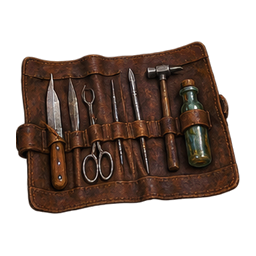
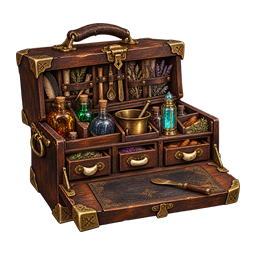
Add costly Upgrade scrollcraft, lasting Keen Study and painted Toolkit

diff --git a/core/src/test/java/com/shatteredpixel/shatteredpixeldungeon/acceptance/ScribingRoomsScenario.java b/core/src/test/java/com/shatteredpixel/shatteredpixeldungeon/acceptance/ScribingRoomsScenario.java
@@ -167,6 +167,7 @@ final class ScribingRoomsScenario {
     }
 
     static void scribing() {
+        BalanceTuning.reset();
         GamesInProgress.selectedClass=HeroClass.ENCHANTER;
         Dungeon.init();Dungeon.switchLevel(Dungeon.newLevel(),-1);SmokeRun.clearArena();
         Hero hero=Dungeon.hero;
@@ -177,10 +178,11 @@ final class ScribingRoomsScenario {
         check(BlankParchment.recipes().isEmpty(),"historical journal knowledge is not a recipe");
         Dungeon.energy=100;int charges=brush.charges();float time=hero.cooldown();
         check(!BlankParchment.scribe(hero,ScrollOfIdentify.class),"unknown recipe rejected");
+        check(!BlankParchment.scribe(hero,ScrollOfUpgrade.class),"unknown Upgrade recipe rejected");
         check(Dungeon.energy==100&&paper.quantity()==10&&brush.charges()==charges&&hero.cooldown()==time,"invalid selection spends nothing");
         new ScrollOfIdentify().identify();new ScrollOfTransmutation().identify();new ScrollOfUpgrade().identify();new ScrollOfEnchantment().identify();
         check(BlankParchment.recipes().contains(ScrollOfIdentify.class)&&BlankParchment.recipes().contains(ScrollOfTransmutation.class)
-                &&!BlankParchment.recipes().contains(ScrollOfUpgrade.class)&&!BlankParchment.recipes().contains(ScrollOfEnchantment.class),"regular pool and forbidden upgrade/exotic recipes");
+                &&BlankParchment.recipes().contains(ScrollOfUpgrade.class)&&!BlankParchment.recipes().contains(ScrollOfEnchantment.class),"regular and Upgrade recipes require knowledge; exotics remain excluded");
         check(BlankParchment.scribe(hero,ScrollOfIdentify.class),"known regular scroll written");
         check(Dungeon.energy==88&&paper.quantity()==9&&brush.charges()==charges-1&&hero.cooldown()==time+3,"one parchment, charge, 12 energy and exactly three turns");
         check(hero.belongings.getItem(ScrollOfIdentify.class).isIdentified(),"written output is known");
@@ -209,6 +211,21 @@ final class ScribingRoomsScenario {
         com.shatteredpixel.shatteredpixeldungeon.items.bags.ScrollHolder holder=new com.shatteredpixel.shatteredpixeldungeon.items.bags.ScrollHolder();
         check(holder.canHold(paper),"parchment fits scroll holder");
         check(((BlankParchment)paper.duplicate()).quantity()==paper.quantity(),"paper stack save/load");
+        check(BlankParchment.cost(ScrollOfUpgrade.class)==120,"default Upgrade energy cost");
+        Dungeon.energy=119;brush.gainCharge(100);charges=brush.charges();time=hero.cooldown();before=paper.quantity();
+        check(!BlankParchment.scribe(hero,ScrollOfUpgrade.class)&&Dungeon.energy==119&&brush.charges()==charges
+                &&paper.quantity()==before&&hero.cooldown()==time,"unaffordable Upgrade spends nothing");
+        Dungeon.energy=120;
+        check(BlankParchment.scribe(hero,ScrollOfUpgrade.class)&&Dungeon.energy==0&&brush.charges()==charges-1
+                &&paper.quantity()==before-1&&hero.cooldown()==time+3,"Upgrade costs exactly 120 energy, one charge, one sheet and three turns");
+        check(hero.belongings.getItem(ScrollOfUpgrade.class).isIdentified(),"crafted Upgrade is identified");
+        BalanceTuning.setShared(BalanceTuning.Key.SCRIBE_UPGRADE_COST,36);BalanceTuning.loadShared();
+        check(BlankParchment.cost(ScrollOfUpgrade.class)==36&&brush.desc().contains("_36 energy_"),"shared tuning drives crafting and current description");
+        Dungeon.energy=72;brush.gainCharge(100);
+        check(BlankParchment.scribe(hero,ScrollOfUpgrade.class)&&BlankParchment.scribe(hero,ScrollOfUpgrade.class)
+                &&Dungeon.energy==0&&hero.belongings.getItem(ScrollOfUpgrade.class).quantity()==3,"tuned cost permits repeated paid crafting without a cap");
+        BalanceTuning.reset();
+        keenStudy(hero,brush);
         int opportunities=0;
         for(int seed=0;seed<100;seed++){
             int count=0;
@@ -221,7 +238,71 @@ final class ScribingRoomsScenario {
             check(count>=1&&count<=5&&BlankParchment.spawnsOn(2,0,HeroClass.ENCHANTER,seed),"early sheet and regional bounds");opportunities+=count;
         }
         check(opportunities>=340&&opportunities<=450,"seeded parchment average remains modest");
-        System.out.println("TEST 63 PASS: Scribe knowledge, exclusions, atomic costs, three turns, carried Brush, recycling one/stack/exotic/stale, bag/save and seeded parchment opportunities="+opportunities+"/100 runs");
+        System.out.println("TEST 63 PASS: Scribe knowledge, Upgrade 120/tuned/shared cost/repeated casts, exotic exclusion, atomic costs, three turns, carried Brush, recycling, bag/save and seeded parchment opportunities="+opportunities+"/100 runs");
+    }
+
+    private static void keenStudy(Hero hero,SigilBrush brush){
+        Class<?> chosen=com.shatteredpixel.shatteredpixeldungeon.items.weapon.enchantments.Blazing.class;
+        long[] seeds=new long[3];java.util.Arrays.fill(seeds,-1);
+        for(long seed=0;java.util.Arrays.stream(seeds).anyMatch(s->s<0);seed++){
+            Random.pushGenerator(seed);float roll=Random.Float();Random.popGenerator();
+            int band=roll<.05f?0:roll<.1f?1:2;if(seeds[band]<0)seeds[band]=seed;
+        }
+        for(int rank=0;rank<=2;rank++)for(int band=0;band<3;band++)for(int kind=0;kind<3;kind++){
+            hero.talents.get(0).put(Talent.KEEN_STUDY,rank);
+            check(EnchanterMagic.permanenceChance(hero)==.05f*rank,"Keen Study rank "+rank+" probability");
+            Item item;
+            if(kind==1){
+                Armor armor=new ClothArmor();armor.inscribe(new Swiftness());hero.belongings.armor=armor;item=armor;
+            }else{
+                com.shatteredpixel.shatteredpixeldungeon.items.weapon.Weapon weapon=kind==0?
+                        new com.shatteredpixel.shatteredpixeldungeon.items.weapon.melee.Dagger():
+                        new com.shatteredpixel.shatteredpixeldungeon.items.weapon.missiles.ThrowingKnife();
+                weapon.enchant(new com.shatteredpixel.shatteredpixeldungeon.items.weapon.enchantments.Chilling());item=weapon;
+                if(kind==0)hero.belongings.weapon=weapon;else hero.belongings.backpack.items.add(weapon);
+            }
+            item.level(2);item.identify();brush.gainCharge(100);int charges=brush.charges();float time=hero.cooldown();
+            Class<?> effect=kind==1?Obfuscation.class:chosen;
+            Random.pushGenerator(seeds[band]);
+            try{check(brush.cast(hero,"inscribe",hero.pos,item,effect),"paid Inscribe succeeds");}finally{Random.popGenerator();}
+            boolean permanent=rank>0&&(band==0||rank==2&&band==1);
+            check(brush.charges()==charges-1&&hero.cooldown()==time+1&&item.trueLevel()==2,"one charge/turn and unchanged upgrades");
+            check(item.inscriptionTurns==(permanent?0:30),"one rank-specific permanence outcome per cast");
+            if(item instanceof Armor){
+                Armor armor=(Armor)item;
+                check(armor.glyph.getClass()==(permanent?Obfuscation.class:Swiftness.class)
+                        &&(permanent?armor.inscribed==null:armor.inscribed instanceof Obfuscation),"armor replaces permanent only on successful roll");
+            }else{
+                com.shatteredpixel.shatteredpixeldungeon.items.weapon.Weapon weapon=(com.shatteredpixel.shatteredpixeldungeon.items.weapon.Weapon)item;
+                check(weapon.enchantment.getClass()==(permanent?chosen:com.shatteredpixel.shatteredpixeldungeon.items.weapon.enchantments.Chilling.class)
+                        &&(permanent?weapon.inscribed==null:weapon.inscribed.getClass()==chosen),"melee/ranged replaces permanent only on successful roll");
+            }
+            for(int turn=0;turn<31;turn++)EnchanterMagic.state().act();
+            check(item.inscriptionTurns==0,"temporary expiration or permanent survival");
+            Item saved=item.duplicate();
+            check(saved.trueLevel()==2&&(saved instanceof Armor?((Armor)saved).glyph.getClass():
+                    ((com.shatteredpixel.shatteredpixeldungeon.items.weapon.Weapon)saved).enchantment.getClass())==
+                    (kind==1?(permanent?Obfuscation.class:Swiftness.class):(permanent?chosen:com.shatteredpixel.shatteredpixeldungeon.items.weapon.enchantments.Chilling.class)),"permanence survives expiry and save/load");
+            if(kind==2)item.detachAll(hero.belongings.backpack);
+        }
+        hero.talents.get(0).put(Talent.KEEN_STUDY,2);brush.gainCharge(-100);
+        Random.pushGenerator(seeds[0]);float expected=Random.Float();Random.popGenerator();
+        Random.pushGenerator(seeds[0]);
+        try{
+            check(!brush.cast(hero,"inscribe",hero.pos,hero.belongings.weapon,chosen)&&Random.Float()==expected,"uncharged cast cannot roll permanence");
+        }finally{Random.popGenerator();}
+        brush.gainCharge(100);
+        Random.pushGenerator(seeds[0]);
+        try{
+            check(!brush.cast(hero,"inscribe",hero.pos,hero.belongings.weapon,Obfuscation.class)&&Random.Float()==expected,"invalid/cancelled choice cannot roll permanence");
+        }finally{Random.popGenerator();}
+        brush.gainCharge(-1);
+        Bundle beforeConsume=new Bundle();brush.storeInBundle(beforeConsume);
+        Talent.onPotionUsed(hero,hero.pos,1);Talent.onScrollUsed(hero,hero.pos,1,ScrollOfIdentify.class);
+        Bundle afterConsume=new Bundle();brush.storeInBundle(afterConsume);
+        check(afterConsume.getFloat("partialcharge")==beforeConsume.getFloat("partialcharge"),"old potion/scroll recharge removed");
+        hero.talents.get(0).put(Talent.KEEN_STUDY,0);
+        System.out.println("KEEN STUDY PASS: once per valid cast, exact 0/5/10% thresholds, melee/ranged/armor replacement, failed rolls preserve permanent, no free rejection rolls, unchanged upgrades, expiry/save and removed consume recharge");
     }
 
     static void spellguard() {

diff --git a/desktop/src/main/java/com/shatteredpixel/shatteredpixeldungeon/desktop/DesktopSmokeProbe.java b/desktop/src/main/java/com/shatteredpixel/shatteredpixeldungeon/desktop/DesktopSmokeProbe.java
@@ -1167,6 +1167,7 @@ final class DesktopSmokeProbe extends ShatteredPixelDungeon {
             com.shatteredpixel.shatteredpixeldungeon.items.scrolls.Scroll.initLabels();
             new com.shatteredpixel.shatteredpixeldungeon.items.scrolls.ScrollOfIdentify().identify();
             new com.shatteredpixel.shatteredpixeldungeon.items.scrolls.ScrollOfTransmutation().identify();
+            new com.shatteredpixel.shatteredpixeldungeon.items.scrolls.ScrollOfUpgrade().identify();
             new com.shatteredpixel.shatteredpixeldungeon.items.BlankParchment().quantity(5).collect();
             Dungeon.energy=100;
             com.shatteredpixel.shatteredpixeldungeon.items.SigilBrush brush=Dungeon.hero.belongings.getItem(com.shatteredpixel.shatteredpixeldungeon.items.SigilBrush.class);
@@ -1938,6 +1939,9 @@ final class DesktopSmokeProbe extends ShatteredPixelDungeon {
                     if(mysteryMenuStep<6 && !mysteryMenuChecks())return;
                     if(!artworkReview())return;
                     System.out.println("TEST 58 UI PASS: balance menu, paging, numeric input, saved changes and reset via native pointer input");
+                    break;
+                case 75:
+                    if(!craftingMenuChecks())return;
                     Gdx.app.exit();return;
             }
             playtestStep++;
@@ -2964,6 +2968,56 @@ final class DesktopSmokeProbe extends ShatteredPixelDungeon {
         }
         return false;
     }
+    private int craftingMenuStep,craftingStartingCharges;
+    private boolean craftingMenuChecks() throws ReflectiveOperationException {
+        switch(craftingMenuStep){
+            case 0:
+                closeReviewWindows();BalanceTuning.reset();Playtest.heroClass(HeroClass.ENCHANTER);break;
+            case 1:
+                com.shatteredpixel.shatteredpixeldungeon.items.scrolls.Scroll.initLabels();
+                new com.shatteredpixel.shatteredpixeldungeon.items.scrolls.ScrollOfIdentify().identify();
+                new com.shatteredpixel.shatteredpixeldungeon.items.scrolls.ScrollOfUpgrade().identify();
+                com.shatteredpixel.shatteredpixeldungeon.items.SigilBrush brush=Dungeon.hero.belongings.getItem(com.shatteredpixel.shatteredpixeldungeon.items.SigilBrush.class);
+                Dungeon.hero.belongings.backpack.items.clear();Dungeon.hero.belongings.artifact=brush;
+                new com.shatteredpixel.shatteredpixeldungeon.items.BlankParchment().quantity(2).collect();
+                brush.gainCharge(100);craftingStartingCharges=brush.charges();Dungeon.energy=168;
+                com.shatteredpixel.shatteredpixeldungeon.windows.WndPlaytest.tuning();break;
+            case 2:if(!playtestClickPage("Enchanter crafting"))return false;break;
+            case 3:
+                interfaceBounds();capture("enchanter-crafting-balance");playtestClick("Upgrade scroll energy cost: 120 energy");break;
+            case 4:interfaceBounds();playtestInput("168","Apply");break;
+            case 5:
+                if(BalanceTuning.get(BalanceTuning.Key.SCRIBE_UPGRADE_COST)!=168)throw new AssertionError("Upgrade cost menu did not apply");
+                closeReviewWindows();GameScene.show(new com.shatteredpixel.shatteredpixeldungeon.windows.WndScribe(Dungeon.hero));break;
+            case 6:
+                interfaceBounds();checkReviewText(Game.scene());capture("enchanter-scribe-upgrade");
+                clickReviewLabel(new com.shatteredpixel.shatteredpixeldungeon.items.scrolls.ScrollOfUpgrade().name()+" — 168");break;
+            case 7:
+                if(Dungeon.energy!=0||Dungeon.hero.belongings.getItem(com.shatteredpixel.shatteredpixeldungeon.items.BlankParchment.class).quantity()!=1
+                        ||Dungeon.hero.belongings.getItem(com.shatteredpixel.shatteredpixeldungeon.items.SigilBrush.class).charges()!=craftingStartingCharges-1
+                        ||Dungeon.hero.belongings.getItem(com.shatteredpixel.shatteredpixeldungeon.items.scrolls.ScrollOfUpgrade.class)==null)throw new AssertionError("Native Upgrade Scribe resources/output");
+                BalanceTuning.reset();closeReviewWindows();
+                GameScene.show(new com.shatteredpixel.shatteredpixeldungeon.windows.WndInfoItem(new com.shatteredpixel.shatteredpixeldungeon.items.artifacts.AlchemistsToolkit()));break;
+            case 8:
+                interfaceBounds();capture("alchemists-toolkit");
+                for(com.watabou.noosa.Gizmo child:RecoveryChecks.members(Game.scene()))if(child instanceof com.shatteredpixel.shatteredpixeldungeon.windows.WndInfoItem){
+                    Object button=findArtworkButton((Group)child);
+                    if(button==null)throw new AssertionError("Toolkit enlargement control missing");
+                    pointerGestureReview(button,Boolean.getBoolean("grimhollow.interfacePortrait")?com.watabou.input.PointerEvent.NONE:com.watabou.input.PointerEvent.LEFT,0);
+                }
+                break;
+            case 9:
+                com.shatteredpixel.shatteredpixeldungeon.windows.WndArtwork viewer=null;
+                for(com.watabou.noosa.Gizmo child:RecoveryChecks.members(Game.scene()))if(child instanceof com.shatteredpixel.shatteredpixeldungeon.windows.WndArtwork)viewer=(com.shatteredpixel.shatteredpixeldungeon.windows.WndArtwork)child;
+                if(viewer==null)throw new AssertionError("Toolkit enlargement did not open");
+                Image artwork=(Image)RecoveryChecks.field(viewer,"artwork");
+                if(artwork.width<256||artwork.height<256)throw new AssertionError("Toolkit lacks source-resolution inspection");
+                interfaceBounds();capture("alchemists-toolkit-artwork");closeReviewWindows();
+                System.out.println("UPGRADE SCRIBE UI PASS: shared balance submenu, numeric input, displayed tuned cost, actual mouse/touch crafting, exact resources and enlarged painted Toolkit; failures=0");return true;
+        }
+        craftingMenuStep++;return false;
+    }
+
     private Object findArtworkButton(Group group){
         for(com.watabou.noosa.Gizmo child:RecoveryChecks.members(group)){
             if(child instanceof com.shatteredpixel.shatteredpixeldungeon.ui.ArtworkButton)return child;

diff --git a/core/src/main/java/com/shatteredpixel/shatteredpixeldungeon/ui/changelist/GrimhollowChanges.java b/core/src/main/java/com/shatteredpixel/shatteredpixeldungeon/ui/changelist/GrimhollowChanges.java
@@ -20,7 +20,11 @@ public final class GrimhollowChanges {
         release.addButton(new ChangeButton(icon.get(),title,text));
     }
     public static void addAllChanges(ArrayList<ChangeInfo> list) {
-        ChangeInfo r=release(list,"v1.30.1","Updates delivered to your doorstep.");
+        ChangeInfo r=release(list,"v1.30.2","The Enchanter studies lasting magic.");
+        note(r,Icons.CHANGES,"Costly scrollcraft","The Brush can write a known Upgrade scroll for 120 alchemical energy, parchment, one charge and three turns. Playtest balance tuning includes the crafting cost.");
+        note(r,Icons.INFO,"Keen Study","Each successful Inscribe cast has a 5%/10% chance to make its enchantment or glyph permanent, replacing the old permanent effect without changing upgrades.");
+        note(r,Icons.INFO,"A field laboratory","The Alchemist\'s Toolkit opens as a worn wooden campaign chest, with matching painted inventory and enlarged inspection artwork.");
+        r=release(list,"v1.30.1","Updates delivered to your doorstep.");
         note(r,Icons.CHANGES,"Grimhollow updates","Check published Grimhollow releases from the home screen or Settings. Read the changes, download in the game, and install when you are ready. Automatic checks and playtest releases can be toggled in Settings.");
         note(r,Icons.INFO,"Careful installation","Downloads must match a signed release manifest. Installation backs up saved data. Windows keeps the previous application for rollback; Android verifies that the update belongs to this installation before opening its system installer.");
         r=release(list,"v1.29.18","A cornered Horror fights back.");

diff --git a/core/src/main/java/com/shatteredpixel/shatteredpixeldungeon/windows/WndPlaytest.java b/core/src/main/java/com/shatteredpixel/shatteredpixeldungeon/windows/WndPlaytest.java
@@ -200,7 +200,7 @@ public class WndPlaytest extends Window {
     public static void tuning(){
         if(!atHome())Playtest.require();
         List<Entry> rows=new ArrayList<>();
-        for(int i:new int[]{0,1,2,3,9}){
+        for(int i:new int[]{0,1,2,3,9,17}){
             final int group=i;rows.add(new Entry(Messages.get(WndPlaytest.class,"tuning_group_"+i),()->tuningGroup(group)));
         }
         rows.add(new Entry("Dragon expedition",()->tuningFamily("Dragon expedition",new int[]{4,5,6,7})));
@@ -263,7 +263,7 @@ public class WndPlaytest extends Window {
                     BalanceTuning.configured(key),key.min,key.max,n->{if(atHome())BalanceTuning.setShared(key,n);else BalanceTuning.set(key,n);},()->tuningGroup(group))));
         }
         if(group==1)rows.add(new Entry("Lurking Horror",()->tuningGroup(8)));
-        Runnable back=group>=13?WndPlaytest::bountyTuning:group>=4 && group<=7?()->tuningFamily("Dragon expedition",new int[]{4,5,6,7}):group==8?()->tuningGroup(1):group==11?WndPlaytest::tuningHatchling:group==10||group==12?WndPlaytest::tuningItems:WndPlaytest::tuning;
+        Runnable back=group>=13 && group<=16?WndPlaytest::bountyTuning:group>=4 && group<=7?()->tuningFamily("Dragon expedition",new int[]{4,5,6,7}):group==8?()->tuningGroup(1):group==11?WndPlaytest::tuningHatchling:group==10||group==12?WndPlaytest::tuningItems:WndPlaytest::tuning;
         show(Messages.get(WndPlaytest.class,"tuning_group_"+group),Messages.get(WndPlaytest.class,"tuning_hint_"+group),rows,back);
     }
     private static void number(String title,String body,int value,int min,int max,IntConsumer action,Runnable back){

diff --git a/core/src/main/java/com/shatteredpixel/shatteredpixeldungeon/actors/buffs/EnchanterMagic.java b/core/src/main/java/com/shatteredpixel/shatteredpixeldungeon/actors/buffs/EnchanterMagic.java
@@ -124,7 +124,25 @@ public class EnchanterMagic extends Buff {
                 || !com.shatteredpixel.shatteredpixeldungeon.items.armor.glyphs.AntiMagic.RESISTS.contains(source.getClass())) return 1f;
         return 1f - .1f * hero.pointsInTalent(Talent.SPELLGUARD);
     }
-    public static void consume(Hero h){SigilBrush brush=h.belongings.getItem(SigilBrush.class);if(brush!=null)brush.advance(5*h.pointsInTalent(Talent.KEEN_STUDY));}
+    public static float permanenceChance(Hero hero){
+        return hero.heroClass==HeroClass.ENCHANTER?.05f*hero.pointsInTalent(Talent.KEEN_STUDY):0;
+    }
+    /** Called once by a successful Inscribe cast, never by combat procs or Etching. */
+    public static void crystallizeInscription(Hero hero,Item item){
+        float chance=permanenceChance(hero);
+        if(chance<=0 || Random.Float()>=chance)return;
+        if(item instanceof Weapon){
+            Weapon weapon=(Weapon)item;
+            if(weapon.inscribed==null)return;
+            weapon.enchant(weapon.inscribed);weapon.inscribed=null;
+        }else if(item instanceof Armor){
+            Armor armor=(Armor)item;
+            if(armor.inscribed==null)return;
+            armor.inscribe(armor.inscribed);armor.inscribed=null;
+        }else return;
+        item.inscriptionTurns=0;learn(item);Item.updateQuickslot();
+        com.shatteredpixel.shatteredpixeldungeon.utils.GLog.p(com.shatteredpixel.shatteredpixeldungeon.messages.Messages.get(SigilBrush.class,"permanent",item.title()));
+    }
     public static void collect(Item item){
         if(state()==null)return;
         int rank=points(Talent.ATTUNEMENT);

diff --git a/core/src/test/java/com/shatteredpixel/shatteredpixeldungeon/acceptance/TuningScenario.java b/core/src/test/java/com/shatteredpixel/shatteredpixeldungeon/acceptance/TuningScenario.java
@@ -32,6 +32,15 @@ final class TuningScenario {
     }
     static void run() throws Exception {
         BalanceTuning.reset();Playtest.reset();Dungeon.hero=null;Dungeon.level=null;
+        check(BalanceTuning.get(SCRIBE_UPGRADE_COST)==120&&SCRIBE_UPGRADE_COST.display(120).equals("120 energy"),"Upgrade Scribe default and units");
+        BalanceTuning.setShared(SCRIBE_UPGRADE_COST,168);BalanceTuning.loadShared();
+        Playtest.reset();
+        check(!Playtest.enabled()&&BalanceTuning.get(SCRIBE_UPGRADE_COST)==168,"Upgrade cost survives disk load and new-run reset without enabling tools");
+        for(int invalid:new int[]{11,601}){
+            boolean bad=false;try{BalanceTuning.setShared(SCRIBE_UPGRADE_COST,invalid);}catch(IllegalArgumentException expected){bad=true;}
+            check(bad&&BalanceTuning.get(SCRIBE_UPGRADE_COST)==168,"Upgrade crafting cost rejects out-of-range values atomically");
+        }
+        BalanceTuning.reset();check(BalanceTuning.get(SCRIBE_UPGRADE_COST)==120,"Upgrade cost reset");
         check(BalanceTuning.get(HORROR_WARNING_POPUP)==1&&HORROR_WARNING_POPUP.display(0).equals("OFF")&&HORROR_WARNING_POPUP.display(1).equals("ON"),"ambush popup defaults/display");
         BalanceTuning.setShared(DENSITY,125);BalanceTuning.setShared(HORROR_WARNING_POPUP,0);BalanceTuning.loadShared();
         check(BalanceTuning.get(HORROR_WARNING_POPUP)==0,"ambush popup shared persistence");

diff --git a/core/src/main/java/com/shatteredpixel/shatteredpixeldungeon/items/BlankParchment.java b/core/src/main/java/com/shatteredpixel/shatteredpixeldungeon/items/BlankParchment.java
@@ -37,11 +37,14 @@ public class BlankParchment extends Item {
     public static List<Class<? extends Scroll>> recipes(){
         List<Class<? extends Scroll>> result=new ArrayList<>();
         for(Class<?> type:Generator.Category.SCROLL.classes)
-            if(type!=ScrollOfUpgrade.class && Scroll.getKnown().contains(type))result.add(type.asSubclass(Scroll.class));
+            if(Scroll.getKnown().contains(type))result.add(type.asSubclass(Scroll.class));
         result.sort(Comparator.comparing(type->Reflection.newInstance(type).name()));
         return result;
     }
-    public static int cost(Class<? extends Scroll> type){return type==ScrollOfTransmutation.class?20:12;}
+    public static int cost(Class<? extends Scroll> type){
+        if(type==ScrollOfUpgrade.class)return com.shatteredpixel.shatteredpixeldungeon.BalanceTuning.get(com.shatteredpixel.shatteredpixeldungeon.BalanceTuning.Key.SCRIBE_UPGRADE_COST);
+        return type==ScrollOfTransmutation.class?20:12;
+    }
     public static boolean canScribe(Hero hero,Class<? extends Scroll> type){
         SigilBrush brush=hero.belongings.getItem(SigilBrush.class);
         return hero==Dungeon.hero && hero.heroClass==HeroClass.ENCHANTER && hero.isAlive()

diff --git a/core/src/main/java/com/shatteredpixel/shatteredpixeldungeon/BalanceTuning.java b/core/src/main/java/com/shatteredpixel/shatteredpixeldungeon/BalanceTuning.java
@@ -53,7 +53,8 @@ public final class BalanceTuning {
         CREW_HEALTH(15,150,100,300), CREW_DAMAGE(15,120,50,250), COLE_HEALTH(15,300,100,500),
         COLE_DAMAGE(15,120,50,250), COLE_EVASION(15,120,100,180), COLE_BOLAS(15,2,0,4),
         BRAND_TURNS(16,8,3,15), BRAND_ACCURACY(16,125,100,175), BRAND_PENETRATION(16,50,0,100),
-        COAT_GROWTH(16,1,0,3), COAT_FIRST_HIT(16,10,0,20);
+        COAT_GROWTH(16,1,0,3), COAT_FIRST_HIT(16,10,0,20),
+        SCRIBE_UPGRADE_COST(17,120,12,600);
 
         public final int group, baseline, min, max;
         Key(int group) { this(group,100,0,1000); }
@@ -62,6 +63,7 @@ public final class BalanceTuning {
         }
         public String id() { return name().toLowerCase(Locale.ROOT); }
         public String display(int value) {
+            if(this==SCRIBE_UPGRADE_COST)return value+" energy";
             if(this==HORROR_WARNING_POPUP)return value==0?"OFF":"ON";
             boolean percentage = this != TIER_SHIFT && (group < 4 || this == EXPEDITION_CHANCE
                     || this == DRAGON_DAMAGE || this == BROOD_DAMAGE || this == EXPEDITION_FALL_DAMAGE

diff --git a/core/src/main/java/com/shatteredpixel/shatteredpixeldungeon/items/SigilBrush.java b/core/src/main/java/com/shatteredpixel/shatteredpixeldungeon/items/SigilBrush.java
@@ -16,6 +16,7 @@ import java.util.*;
 import com.watabou.utils.Random;
 public class SigilBrush extends ClassSpellItem {
     {image=ItemSpriteSheet.SIGIL_BRUSH;}
+    @Override public String desc(){return Messages.get(this,"desc",BlankParchment.cost(com.shatteredpixel.shatteredpixeldungeon.items.scrolls.ScrollOfUpgrade.class));}
     @Override protected boolean canCastFrom(Hero h){
         return isEquipped(h) || h.hasTalent(Talent.DUAL_INSCRIPTION) && h.belongings.contains(this);
     }
@@ -84,6 +85,7 @@ public class SigilBrush extends ClassSpellItem {
             case "inscribe":
                 if(!inscriptionTarget(h,item)||magic==null||!magic.choices(item).contains(choice))return false;
                 inscribe(item,choice,30+10*h.pointsInTalent(Talent.STEADY_HAND));
+                EnchanterMagic.crystallizeInscription(h,item);
                 if(Random.Float()<.1f*h.pointsInTalent(Talent.EFFICIENT_SIGILS))cost=0;
                 break;
             case "transmute":

diff --git a/core/src/test/java/com/shatteredpixel/shatteredpixeldungeon/acceptance/SmokeRun.java b/core/src/test/java/com/shatteredpixel/shatteredpixeldungeon/acceptance/SmokeRun.java
@@ -1690,6 +1690,8 @@ public class SmokeRun {
         check(brush.cast(h,"hex",enemy.pos,null,null)&&brush.charges()==2&&enemy.buff(DegradedGear.class)!=null&&enemy.buff(Hex.class)!=null,"Hex Sigil");
         for(int i=0;i<37;i++)h.buff(ClassSpellItem.Charger.class).act();check(brush.charges()==2,"No early Brush charge");h.buff(ClassSpellItem.Charger.class).act();check(brush.charges()==3,"Brush level-one cadence");
         h.lvl=21;h.HT=h.HP=120;h.subClass=HeroSubClass.ARTIFICER;Talent.initSubclassTalents(h);maxTalents();
+        // This fixture requires temporary layers; rank-specific permanence is covered by ScribingRoomsScenario.
+        h.talents.get(0).put(Talent.KEEN_STUDY,0);
         java.util.List<Class<?>> priorKnowledge=new java.util.ArrayList<>(EnchanterMagic.state().choices(false));
         java.util.List<Class<?>> priorGlyphs=new java.util.ArrayList<>(EnchanterMagic.state().choices(true));
         int knowledgeDepth=Dungeon.depth;

diff --git a/core/src/main/java/com/shatteredpixel/shatteredpixeldungeon/actors/hero/Talent.java b/core/src/main/java/com/shatteredpixel/shatteredpixeldungeon/actors/hero/Talent.java
@@ -719,7 +719,6 @@ public enum Talent {
 	}
 
 	public static void onPotionUsed( Hero hero, int cell, float factor ){
-        com.shatteredpixel.shatteredpixeldungeon.actors.buffs.EnchanterMagic.consume(hero);
 		if (hero.hasTalent(LIQUID_WILLPOWER)){
 			// 6.5/10% of max HP
 			int shieldToGive = Math.round( factor * hero.HT * (0.030f + 0.035f*hero.pointsInTalent(LIQUID_WILLPOWER)));
@@ -771,7 +770,6 @@ public enum Talent {
 	}
 
 	public static void onScrollUsed( Hero hero, int pos, float factor, Class<?extends Item> cls ){
-        com.shatteredpixel.shatteredpixeldungeon.actors.buffs.EnchanterMagic.consume(hero);
 		if (hero.hasTalent(INSCRIBED_POWER)){
 			// 2/3 empowered wand zaps
 			Buff.affect(hero, ScrollEmpower.class).reset((int) (factor * (1 + hero.pointsInTalent(INSCRIBED_POWER))));

diff --git a/tools/painted/inventory.py b/tools/painted/inventory.py
@@ -88,6 +88,9 @@ def build(cell_size=64):
         replacements['ARMOR_'+hero.upper()]=make_icon(parts(hero)[1])
     replacements['ARMOR_LEATHER_OCHRE']=make_icon(ImageEnhance.Color(gear[1]).enhance(1.3))
     replacements['ARMOR_LEATHER_ASH']=make_icon(ImageEnhance.Color(gear[1]).enhance(.08))
+    toolkit=Image.open(HERE/'sources/items/alchemists-toolkit.png').convert('RGBA')
+    if toolkit.getchannel('A').getextrema()[0]!=0:raise ValueError('Toolkit source lacks genuine alpha')
+    replacements['KIT']=make_icon(toolkit)
     for name,source in {'ARTIFACT_TOOLKIT':'KIT','ARTIFACT_BEACON':'BEACON'}.items():
         replacements[name]=replacements[source]
     # A disguised mimic and its ordinary chest share the exact same authored
